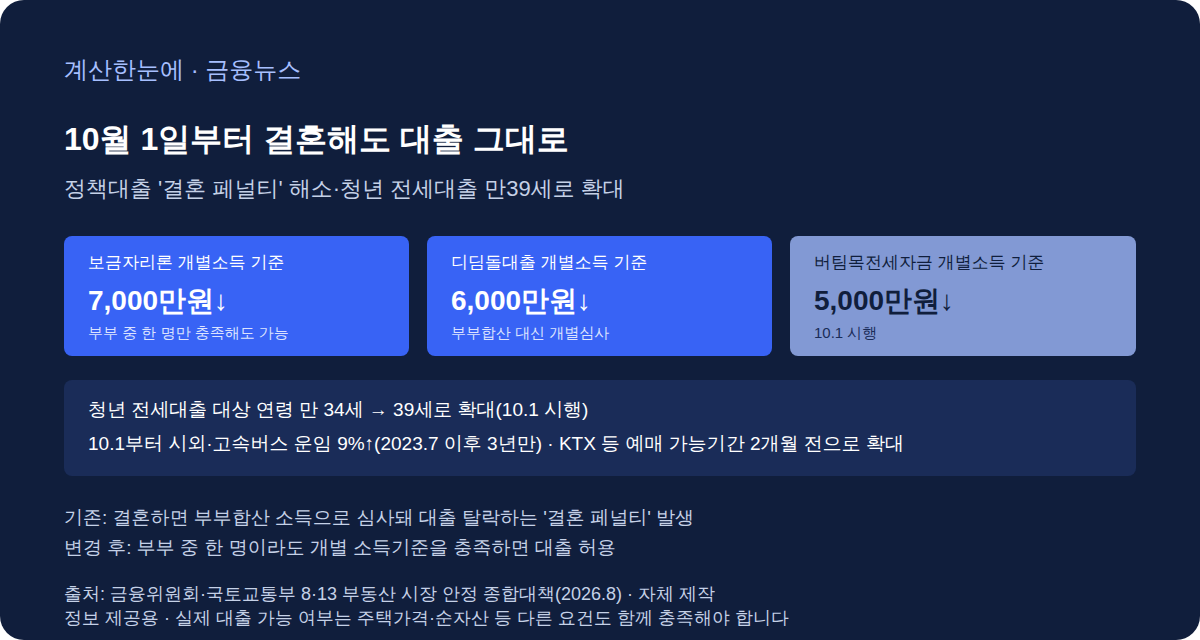
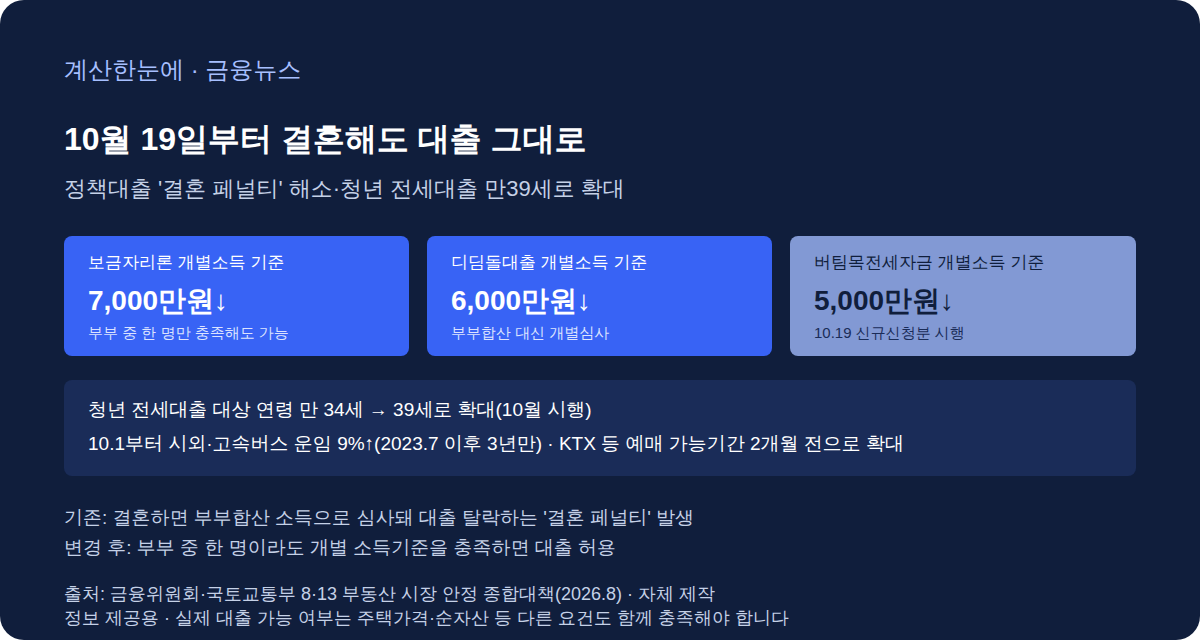
feat(news): 신한은행 대출정보 유출 기사 추가; 결혼페널티 시행일 10.19로 정정
오늘(10/1) 자 금융뉴스로 신한은행 대출모집인 시스템 개인정보 유출 사고를
다뤘다. 이투데이·데일리안·뉴스웍스·일간투데이 등으로 교차검증했고,
작년 12월 신한카드 유출(19만건) 사례를 함께 짚어 계열사 반복 사고라는
맥락을 더했다. 제목에 "대출"이 들어가 자동 키워드 매칭으로 대출 계산기
CTA가 잘못 붙는 것을 막기 위해 calculatorHrefOverrides: []로 명시
차단했다(기존 "스미싱 기사 오탐" 사례와 같은 유형).

오늘 취재 중 9/28 기사와 9/29 정책 페이지 3건이 정책대출 결혼 페널티
해소 시행일을 "10월 1일"로 잘못 보도했다는 것을 확인해 함께 정정했다.
이데일리·뉴스1·서울경제·스포탈코리아 등 다수 매체가 "10월 19일 신규
신청분부터" 적용된다고 명확히 보도하고 있어, 당초 보도(10.1)가 이후
구체화된 시행일(10.19)을 반영하지 못한 것으로 확인된다.

- lib/news.ts: marriage-penalty-policy-loan-relief-oct-2026 기사의
  제목·요약·본문·이미지alt·지갑영향 요약에서 "10월 1일"→"10월 19일
  신규 신청분"으로 수정, 본문 말미에 정정 사실 명시, reviewedAt을
  2026-10-01로 갱신(버스·KTX 10.1 시행 부분은 정확했으므로 유지)
- public/news-marriage-penalty-loan-relief.svg: 인포그래픽 날짜 동일
  수정 후 PNG 재생성
- lib/constants/policyData.ts: 청년전용 버팀목전세자금(연령 확대 시행일
  "10월"로 완화), 디딤돌대출·보금자리론(결혼페널티 완화 "10월 19일
  신규 신청분"으로 수정), 세 항목 checkedAt을 2026-10-01로 갱신

Claude-Session: https://claude.ai/code/session_01QDsdG4QVcuaDEbProvrrsE

Changed region(s): [[0.1233, 0.1875, 0.4933, 0.25], [0.7092, 0.5, 0.8017, 0.5312], [0.4317, 0.625, 0.4933, 0.6562]]

diff --git a/lib/news.ts b/lib/news.ts
@@ -540,27 +540,27 @@ export const newsArticles: NewsArticle[] = [
   },
   {
     slug: "marriage-penalty-policy-loan-relief-oct-2026",
-    title: "10월 1일부터 결혼해도 대출 그대로…정책대출 '결혼 페널티' 사라진다",
-    category: "금융", date: "2026-09-28", publishedAt: "2026-09-28", reviewedAt: "2026-09-28",
-    summary: "이번 주 목요일인 10월 1일부터 보금자리론·디딤돌대출·버팀목전세자금 등 주요 정책대출에서 부부 중 한 명만 개별 소득기준을 충족해도 대출을 받을 수 있도록 심사 방식이 바뀝니다. 청년 전세대출 대상 연령도 만 34세에서 39세로 넓어지고, 같은 날 시외·고속버스 운임은 9% 오릅니다. 결혼신고나 전세 계약, 장거리 이동을 앞두고 있다면 날짜를 확인해볼 만합니다.",
+    title: "10월 19일부터 결혼해도 대출 그대로…정책대출 '결혼 페널티' 사라진다",
+    category: "금융", date: "2026-09-28", publishedAt: "2026-09-28", reviewedAt: "2026-10-01",
+    summary: "10월 19일 신규 신청분부터 보금자리론·디딤돌대출·버팀목전세자금 등 주요 정책대출에서 부부 중 한 명만 개별 소득기준을 충족해도 대출을 받을 수 있도록 심사 방식이 바뀝니다. 청년 전세대출 대상 연령도 만 34세에서 39세로 넓어지며, 10월 1일부터는 시외·고속버스 운임이 9% 오릅니다. 결혼신고나 전세 계약, 장거리 이동을 앞두고 있다면 날짜를 확인해볼 만합니다.",
     sourceName: "금융위원회·국토교통부 8·13 부동산 시장 안정 종합대책(2026.8.13)",
     sourceUrl: "https://www.fsc.go.kr/no010101",
     image: "/news-marriage-penalty-loan-relief.svg",
-    imageAlt: "10월 1일부터 보금자리론은 개별소득 7,000만원 이하, 디딤돌대출은 6,000만원 이하, 버팀목전세자금은 5,000만원 이하이면 부부 중 한 명만 충족해도 대출이 허용되고, 청년 전세대출 대상 연령은 만 34세에서 39세로 확대되며, 같은 날 시외·고속버스 운임이 9% 오르고 KTX 등 철도승차권 예매 가능기간이 출발 2개월 전으로 늘어난다는 내용을 담은 인포그래픽. 기존에는 결혼하면 부부합산 소득으로 심사돼 대출에서 탈락하는 '결혼 페널티'가 있었으나, 변경 후에는 부부 중 한 명이라도 개별 소득기준을 충족하면 대출이 허용된다.",
+    imageAlt: "10월 19일 신규 신청분부터 보금자리론은 개별소득 7,000만원 이하, 디딤돌대출은 6,000만원 이하, 버팀목전세자금은 5,000만원 이하이면 부부 중 한 명만 충족해도 대출이 허용되고, 청년 전세대출 대상 연령은 만 34세에서 39세로 확대되며, 10월 1일부터는 시외·고속버스 운임이 9% 오르고 KTX 등 철도승차권 예매 가능기간이 출발 2개월 전으로 늘어난다는 내용을 담은 인포그래픽. 기존에는 결혼하면 부부합산 소득으로 심사돼 대출에서 탈락하는 '결혼 페널티'가 있었으나, 변경 후에는 부부 중 한 명이라도 개별 소득기준을 충족하면 대출이 허용된다.",
     walletTakeaway: [
-      "결혼을 앞두고 보금자리론·디딤돌대출·버팀목전세자금을 고려 중이라면, 혼인신고 시점을 10월 1일 이후로 맞추는 것이 유리한지 개별 소득기준(7,000만·6,000만·5,000만원)으로 직접 확인해보세요.",
+      "결혼을 앞두고 보금자리론·디딤돌대출·버팀목전세자금을 고려 중이라면, 혼인신고 시점을 10월 19일 이후로 맞추는 것이 유리한지 개별 소득기준(7,000만·6,000만·5,000만원)으로 직접 확인해보세요.",
       "만 35~39세 무주택자라면 10월부터 새로 청년 전세대출 대상에 포함되니, 전세 계약 전에 미리 자격을 확인해보세요.",
       "10월 1일부터 시외·고속버스 요금이 9% 오르니 정기적으로 장거리 버스를 이용한다면 사전에 왕복 일정이나 승차권 구매 시점을 조정해보는 것이 좋습니다.",
     ],
     body: [
-      "이번 주 목요일인 10월 1일부터 보금자리론·디딤돌대출·버팀목전세자금 등 주요 정책대출에서 결혼 여부 때문에 대출 자격을 잃는 이른바 '결혼 페널티'가 사라진다. 지금까지는 부부가 되면 두 사람의 소득을 합산해 심사했지만, 앞으로는 부부 중 한 명만 개별 소득기준을 충족해도 대출을 받을 수 있도록 바뀐다. 청년 전세대출의 대상 연령도 만 34세에서 39세로 넓어져, 이달 안에 결혼신고나 전세 계약을 앞두고 있다면 날짜를 챙겨볼 만하다.",
+      "10월 19일 신규 신청분부터 보금자리론·디딤돌대출·버팀목전세자금 등 주요 정책대출에서 결혼 여부 때문에 대출 자격을 잃는 이른바 '결혼 페널티'가 사라진다. 지금까지는 부부가 되면 두 사람의 소득을 합산해 심사했지만, 앞으로는 부부 중 한 명만 개별 소득기준을 충족해도 대출을 받을 수 있도록 바뀐다. 청년 전세대출의 대상 연령도 만 34세에서 39세로 넓어져, 결혼신고나 전세 계약을 앞두고 있다면 날짜를 챙겨볼 만하다.",
       "이번 조치는 금융위원회와 국토교통부가 지난 8월 13일 발표한 부동산 시장 안정을 위한 금융 종합대책(8·13대책)에 담긴 내용이다. 그동안 정책대출은 미혼일 때는 각자 소득기준을 충족해 대출이 가능하다가도, 결혼 후 배우자 소득까지 합산되면서 기준을 초과해 대상에서 제외되는 사례가 많았다. 예를 들어 연소득 5,000만원과 7,000만원인 두 사람이 각각 미혼일 때는 무주택 실수요자 대출을 받을 수 있지만, 결혼해 합산소득이 1억2,000만원이 되면 소득 기준을 넘어 디딤돌대출 대상에서 빠지는 식이다. 청년들이 대출 때문에 혼인신고를 미루는 부작용까지 나타나자 정부가 이를 결혼 페널티로 규정하고 손보기로 했다.",
-      "10월 1일부터는 이 기준이 부부 중 한 명의 개별 소득으로 바뀐다. 보금자리론은 7,000만원, 디딤돌대출은 6,000만원, 버팀목전세자금은 5,000만원이 각각의 개별 소득 기준이며, 부부 중 한 명이라도 이 금액 이하이면 대출을 받을 수 있다. 앞서 예로 든 5,000만원·7,000만원 소득의 부부라면, 10월부터는 부부합산이 아니라 5,000만원 소득자를 기준으로 심사해 버팀목전세자금 대상이 될 수 있다는 뜻이다. 다만 실제 대출 가능 여부와 한도는 주택가격, 순자산, 대상주택 요건 등 다른 심사 기준도 함께 충족해야 확정된다.",
+      "10월 19일 신규 신청분부터는 이 기준이 부부 중 한 명의 개별 소득으로 바뀐다. 보금자리론은 7,000만원, 디딤돌대출은 6,000만원, 버팀목전세자금은 5,000만원이 각각의 개별 소득 기준이며, 부부 중 한 명이라도 이 금액 이하이면 대출을 받을 수 있다. 앞서 예로 든 5,000만원·7,000만원 소득의 부부라면, 10월 19일부터는 부부합산이 아니라 5,000만원 소득자를 기준으로 심사해 버팀목전세자금 대상이 될 수 있다는 뜻이다. 다만 실제 대출 가능 여부와 한도는 주택가격, 순자산, 대상주택 요건 등 다른 심사 기준도 함께 충족해야 확정된다.",
       "청년 대상 정책대출의 나이 기준도 통일된다. 정부는 상품마다 제각각이던 청년 연령 기준을 만 39세 이하로 맞추기로 했고, 그동안 만 34세 이하까지만 이용할 수 있었던 청년 전세대출 보증 대상이 10월부터 39세 이하로 넓어진다. 30대 후반 무주택자도 청년 전형 전세대출을 새로 이용할 수 있게 되는 셈이다.",
       "다만 현장 반응은 엇갈린다. 결혼 페널티가 해소된 것은 환영할 만하지만, 최근 수도권을 중심으로 집값이 이미 크게 오른 상태라 소득 기준 완화만으로는 실수요자의 부담이 크게 줄지 않을 것이라는 지적도 나온다. 대상 주택의 가격 상한이나 지역별 대출 한도는 이번 대책에서 크게 바뀌지 않아, 서울 등 고가 지역에서는 여전히 정책대출만으로 집을 구하기 어렵다는 목소리도 있다.",
-      "정부는 여기서 한 걸음 더 나아가 내년 1월 만 39세 이하, 연소득 7,000만원 이하 청년을 대상으로 청년미래보금자리론을 새로 출시할 계획도 함께 내놨다. 4억원 이하 빌라·오피스텔 등 비아파트를 살 때 담보인정비율(LTV) 최대 80%를 적용하는 상품으로, 2억원을 연 3.0% 금리로 30년간 빌리면 월 원리금 상환액이 약 85만원 수준이 되도록 설계해 월세 낼 돈으로 내 집을 마련한다는 취지다. 다만 이 상품은 10월이 아니라 2027년 1월 출시 예정이어서 이번 주부터 곧바로 이용할 수 있는 것은 아니다.",
-      "같은 날인 10월 1일부터는 대출 외에 생활비에 직접 영향을 주는 변화도 함께 시행된다. 국토교통부는 시외버스와 고속버스 운임 상한을 각각 9% 인상한다고 밝혔다. 버스업계가 인건비·유류비 상승을 이유로 시외버스 17%, 고속버스 20.1% 인상을 요구했지만, 국토교통부가 원가 검증과 이용자 부담을 고려해 인상 폭을 9%로 정했다. 2023년 7월 5% 인상 이후 약 3년 만의 요금 인상이다. 반대로 이용자에게 편의가 늘어나는 변화도 있다. KTX 등 철도 승차권은 10월 1일부터 예매 가능 기간이 출발 2개월 전으로 늘어나 추석·설 등 성수기 좌석을 더 여유 있게 준비할 수 있게 된다.",
-      "이번 정책대출 완화는 소득 기준만 바뀌는 것이고, 주택가격·순자산·대상주택 등 나머지 자격 요건은 기존과 동일하게 적용된다. 실제 대출 가능 여부와 한도, 금리는 신청 시점의 소득·자산 심사 결과에 따라 달라지므로, 결혼이나 전세 계약을 앞두고 있다면 10월 1일 이후 주택도시기금이나 한국주택금융공사 공식 창구에서 개편된 기준으로 다시 확인해보는 것이 좋다. 이 글은 정보 전달을 목적으로 하며 특정 대출 상품의 가입을 권유하지 않는다.",
+      "정부는 여기서 한 걸음 더 나아가 내년 1월 만 39세 이하, 연소득 7,000만원 이하 청년을 대상으로 청년미래보금자리론을 새로 출시할 계획도 함께 내놨다. 4억원 이하 빌라·오피스텔 등 비아파트를 살 때 담보인정비율(LTV) 최대 80%를 적용하는 상품으로, 2억원을 연 3.0% 금리로 30년간 빌리면 월 원리금 상환액이 약 85만원 수준이 되도록 설계해 월세 낼 돈으로 내 집을 마련한다는 취지다. 다만 이 상품은 10월이 아니라 2027년 1월 출시 예정이어서 당장 이용할 수 있는 것은 아니다.",
+      "이와 별도로 10월 1일부터는 대출 외에 생활비에 직접 영향을 주는 변화도 시행된다. 국토교통부는 시외버스와 고속버스 운임 상한을 각각 9% 인상한다고 밝혔다. 버스업계가 인건비·유류비 상승을 이유로 시외버스 17%, 고속버스 20.1% 인상을 요구했지만, 국토교통부가 원가 검증과 이용자 부담을 고려해 인상 폭을 9%로 정했다. 2023년 7월 5% 인상 이후 약 3년 만의 요금 인상이다. 반대로 이용자에게 편의가 늘어나는 변화도 있다. KTX 등 철도 승차권은 10월 1일부터 예매 가능 기간이 출발 2개월 전으로 늘어나 추석·설 등 성수기 좌석을 더 여유 있게 준비할 수 있게 된다.",
+      "이번 정책대출 완화는 소득 기준만 바뀌는 것이고, 주택가격·순자산·대상주택 등 나머지 자격 요건은 기존과 동일하게 적용된다. 실제 대출 가능 여부와 한도, 금리는 신청 시점의 소득·자산 심사 결과에 따라 달라지므로, 결혼이나 전세 계약을 앞두고 있다면 10월 19일 이후 주택도시기금이나 한국주택금융공사 공식 창구에서 개편된 기준으로 다시 확인해보는 것이 좋다. 이 글은 정보 전달을 목적으로 하며 특정 대출 상품의 가입을 권유하지 않는다. (2026년 10월 1일 정정: 정책대출 결혼 페널티 완화·소득기준 변경은 당초 보도와 달리 10월 1일이 아닌 10월 19일 신규 신청분부터 적용된다는 점을 확인해 날짜를 바로잡았다.)",
     ]
   },
   {
@@ -611,6 +611,33 @@ export const newsArticles: NewsArticle[] = [
       "제도적으로는 자본시장법 개정을 통해 금융당국에 긴급조치권을 부여하는 방안도 함께 추진된다. 시장이 급변할 때 지금처럼 사후에 보완책을 내놓는 대신, 금융위와 금융감독원이 즉시 시장 안정화 조치를 취할 수 있는 법적 근거를 미리 마련해두겠다는 취지다. 금융위는 참고 사례로 홍콩 증권선물위원회(SFC)의 가변 레버리지 배율 지침을 들었다. 홍콩은 자산운용사의 운용 역량에 따라 사전 기준 설정과 공시 절차를 거쳐 상장 레버리지·인버스 상품의 배율을 조정할 수 있도록 허용하고 있다.",
       "일각에서는 이번 대응이 한발 늦었다는 비판도 나온다. 이미 여러 투자자가 큰 손실을 확정한 뒤에야 강화된 대책이 나왔다는 지적이다. 7월 말 1차 규제 발표 당시에도 '투자자 대다수가 손실을 본 뒤에야 뒷북 대응에 나섰다'는 비판이 있었는데, 이번 추가조치 역시 구체적인 시행 시기가 확정되지 않아 시장에서는 여전히 불확실성이 남아 있다는 평가가 나온다.",
       "금융위원회는 이번에 발표한 과제들을 소관기관을 중심으로 세부방안을 마련해 최대한 조기에 시행하겠다는 입장이다. 다만 투자한도 비율, 모의거래 방식, 과다호가부담금 부과 기준 등 구체적인 내용과 시행일은 아직 확정되지 않았다. 이미 단일종목 레버리지·인버스 ETF에 투자하고 있거나 투자를 고려 중이라면, 이 상품이 단기 매매를 전제로 설계돼 기초자산보다 변동성이 훨씬 크다는 점을 감안하고 향후 발표되는 세부 시행 기준을 확인하는 것이 좋다. 이 글은 정보 전달을 목적으로 하며 특정 금융상품에 대한 투자를 권유하지 않는다.",
+    ]
+  },
+  {
+    slug: "shinhan-bank-loan-info-leak-2026-10-01",
+    title: "신한은행 대출정보 2만건 유출 정황…금감원 긴급 현장조사",
+    category: "금융", date: "2026-10-01", publishedAt: "2026-10-01", reviewedAt: "2026-10-01",
+    summary: "1일 금융권에 따르면 신한은행의 대출모집인 전용 시스템에서 고객 개인정보가 유출된 정황이 포착돼 금융감독원이 긴급 현장조사에 착수했습니다. 현재까지 파악된 유출 규모는 대출자 정보 약 2만건으로, 주민등록번호·소득·대출금액 등이 포함된 것으로 전해졌습니다. 신한은행은 당국과 조율해 대국민 사과문을 낼 예정입니다.",
+    sourceName: "금융감독원·신한은행 관련 보도(2026.10.1)",
+    sourceUrl: "https://www.fss.or.kr",
+    image: "/news-shinhan-bank-info-leak.svg",
+    imageAlt: "신한은행의 대출모집인 전용 시스템에서 고객 개인정보 약 2만건이 유출된 정황이 포착돼 10월 1일 금융감독원이 긴급 현장조사에 착수했다는 내용의 인포그래픽. 유출 정보에는 주민등록번호·소득·대출금액 등 대출 심사·모집 과정에서 수집된 개인정보가 포함됐고, 유출 경로는 고객이 쓰는 공식 뱅킹앱이 아닌 대출모집인 전용 시스템이며, 로그인 인증 기반 뱅킹서비스 자체가 해킹된 것은 아닌 것으로 전해졌다. 일각에서는 다른 사이트에서 유출된 계정 정보로 반복 로그인을 시도하는 '크리덴셜 스터핑' 공격 가능성이 제기되고 있다.",
+    calculatorHrefOverrides: [],
+    walletTakeaway: [
+      "최근 신한은행에서 대출 상담이나 신청을 진행한 적이 있다면, 신한은행 공식 고객센터나 공식 앱을 통해 본인 정보가 이번 유출 대상에 포함됐는지 확인해보세요.",
+      "다른 사이트와 같은 아이디·비밀번호를 신한은행 계정에도 쓰고 있다면 지금 비밀번호를 바꾸고, 가능하다면 OTP 등 추가 인증 수단을 켜두는 것이 안전합니다.",
+      "유출된 정보(주민번호·소득·대출금액 등)를 이용한 보이스피싱·대출사기 시도가 뒤따를 수 있으니, 신한은행을 사칭해 추가 인증이나 송금을 요구하는 전화·문자에는 응하지 말고 대표번호로 직접 확인하세요.",
+    ],
+    body: [
+      "1일 금융권에 따르면 신한은행의 대출모집인 전용 시스템에서 고객 개인정보가 외부로 유출된 정황이 포착돼 금융감독원이 긴급 현장조사에 착수했다. 현재까지 파악된 유출 규모는 대출자 정보 약 2만건 안팎으로, 정확한 범위와 경위는 조사가 진행 중이어서 아직 확정되지 않았다. 신한은행은 금융당국과 조율을 거쳐 대국민 사과문을 발표할 예정이다.",
+      "이번 사고는 고객이 직접 쓰는 신한은행 공식 홈페이지나 모바일 뱅킹 앱이 아니라, 대출모집인들이 영업 과정에서 접속하는 별도 시스템에서 발생한 것으로 전해졌다. 이 시스템에는 대출 심사·모집 과정에서 수집된 차주의 주민등록번호, 소득, 대출금액 등 개인정보와 신용정보가 담겨 있었다. 유출 사실은 지난달 30일 정황이 포착되면서 알려지기 시작했다.",
+      "해킹 수법으로는 '크리덴셜 스터핑' 방식의 공격 가능성이 금융권 일각에서 제기되고 있다. 이는 공격자가 다른 경로로 확보한 아이디·비밀번호 조합을 여러 온라인 서비스에 반복 대입해 로그인을 시도하는 수법으로, 이용자가 여러 사이트에서 똑같거나 비슷한 로그인 정보를 재사용하는 습관을 악용한다. 다만 이번 사고의 정확한 침입 경로는 금융당국 조사를 통해 확인될 예정이며, 아직 공식적으로 확정된 설명은 아니다.",
+      "금융위원회와 금융감독원은 1일 오전 회의를 열어 사고 상황을 공유하고 대응 방안을 점검했다. 금융감독원은 은행권, IT·보안 전문 인력을 투입해 현장조사를 진행 중이며, 유출된 정보의 정확한 성격과 규모, 유출 경위 등을 종합적으로 파악하고 있다고 밝혔다.",
+      "다만 공인인증·OTP 등 로그인 인증을 기반으로 한 신한은행 뱅킹 서비스 자체가 뚫린 것은 아닌 것으로 전해졌다. 이번 유출은 웹상의 간편 조회 서비스를 거쳐 정보 일부가 샌 것으로 파악돼, 계좌에서 직접 자금이 빠져나가는 유형의 사고와는 성격이 다르다. 그렇다고 안심할 수 있는 것은 아니다. 주민등록번호·소득·대출금액처럼 구체적인 개인정보가 유출된 만큼, 이를 활용한 2차 범죄로 이어질 위험은 남아 있다.",
+      "신한금융그룹 계열사의 정보유출 사고는 이번이 처음이 아니다. 지난해 12월에도 신한카드에서 개인정보 약 19만건이 유출되는 사고가 발생해 금융당국이 긴급 현장검사에 나섰고, 당시에는 카드업권 전체를 상대로 한 점검으로까지 이어진 바 있다. 약 9개월 만에 계열사인 은행에서 비슷한 유형의 사고가 다시 발생하면서, 이번에는 특정 계열사만이 아니라 그룹 차원의 정보보호 체계 전반을 점검해야 한다는 지적도 나온다.",
+      "실제로 유출된 개인정보는 보이스피싱이나 대출사기의 재료로 악용되기 쉽다. 공격자가 피해자의 실제 대출 정보를 미리 알고 접근하면, '신한은행 상담원'이나 '금융감독원 직원'을 사칭한 전화·문자의 신빙성이 훨씬 높아지기 때문이다. 앞서 지난달에도 금융위원회와 금융감독원이 택배 배송 오류나 과태료 미납을 사칭한 스미싱, 금융기관을 사칭해 추가 인증을 요구하는 보이스피싱에 대한 주의보를 낸 바 있는데, 이번처럼 실제 금융정보가 유출된 상태에서는 유사한 사기 시도에 더욱 주의할 필요가 있다.",
+      "최근 신한은행에서 대출 상담이나 신청 이력이 있는 고객이라면 공식 고객센터나 공식 앱을 통해 유출 여부를 확인해보는 것이 좋다. 다른 사이트와 동일한 비밀번호를 쓰고 있었다면 이번 기회에 바꿔두고, 출처를 알 수 없는 전화나 문자로 개인정보나 추가 인증을 요구받으면 바로 응하지 말고 신한은행 대표번호로 직접 확인하는 절차를 거치는 것이 안전하다.",
+      "이 사고는 여전히 조사 중인 사안으로, 유출 정보의 정확한 범위와 경위, 재발방지 대책 등은 금융감독원 조사 결과와 신한은행의 공식 발표를 통해 추가로 확인될 전망이다. 이 글은 1일 오전까지 보도된 내용을 기준으로 작성됐으며, 이후 조사 결과에 따라 세부 내용이 달라질 수 있다. 이 글은 정보 전달을 목적으로 하며 특정 금융상품의 가입이나 투자를 권유하지 않는다.",
     ]
   },
 ];

diff --git a/lib/constants/policyData.ts b/lib/constants/policyData.ts
@@ -4,12 +4,12 @@ const loanLinks = [{ label: "대출 이자 계산기", href: "/calculators/loan-
 const salaryLinks = [{ label: "연봉 실수령액 계산기", href: "/calculators/salary-net-pay" }, { label: "퇴직금 계산기", href: "/calculators/severance-pay" }];
 
 export const policyData = {
-  youthJeonse: { category: "주거·부동산", title: "청년전용 버팀목전세자금: 신청 전 확인사항", summary: "청년전용 버팀목전세자금은 무주택 청년의 전세보증금 마련을 지원하는 주택도시기금 상품입니다. 2026년 10월 1일부터 대상 연령이 만 39세까지 넓어졌습니다. 금리만 비교하지 말고 나이, 세대주, 소득·자산, 대상주택과 보증 가능 여부를 순서대로 확인해야 합니다.", status: "공식 상품 운영 확인", checkedAt: "2026-09-29", audience: ["전세 계약을 앞둔 무주택 청년", "일반 은행 전세대출과 정책대출 이자를 비교하는 사람"], benefits: ["대출 한도는 최대 2억원이며, 만 25세 미만 단독세대주는 1.5억원까지입니다. 실제 한도는 이 금액과 전세보증금의 80% 중 더 적은 금액으로 정해집니다.", "적용금리는 연 1.0%~4.3% 수준이며, 실제 금리와 한도는 접수일의 상품 기준과 소득·자산 심사에 따라 달라집니다."], checks: ["2026년 10월 1일부터 대상 연령이 만 34세 이하에서 39세 이하로 확대됩니다. 이전에는 34세를 넘으면 이용할 수 없었습니다.", "세대주 또는 예비 세대주여야 합니다.", "부부합산 연소득 5천만원, 순자산 3.45억원 이하 기준을 확인하세요.", "본인과 세대원의 무주택 요건, 임대차계약서와 신청시기 요건을 확인하세요.", "대출 승인과 반환보증 가입 가능 여부는 별도 심사이니 함께 확인하세요."], sourceName: "주택도시기금 청년전용 버팀목전세자금", sourceUrl: "https://nhuf.molit.go.kr/FP/FP05/FP0502/FP05020301.jsp", related: loanLinks },
+  youthJeonse: { category: "주거·부동산", title: "청년전용 버팀목전세자금: 신청 전 확인사항", summary: "청년전용 버팀목전세자금은 무주택 청년의 전세보증금 마련을 지원하는 주택도시기금 상품입니다. 2026년 10월부터 대상 연령이 만 39세까지 넓어졌습니다. 금리만 비교하지 말고 나이, 세대주, 소득·자산, 대상주택과 보증 가능 여부를 순서대로 확인해야 합니다.", status: "공식 상품 운영 확인", checkedAt: "2026-10-01", audience: ["전세 계약을 앞둔 무주택 청년", "일반 은행 전세대출과 정책대출 이자를 비교하는 사람"], benefits: ["대출 한도는 최대 2억원이며, 만 25세 미만 단독세대주는 1.5억원까지입니다. 실제 한도는 이 금액과 전세보증금의 80% 중 더 적은 금액으로 정해집니다.", "적용금리는 연 1.0%~4.3% 수준이며, 실제 금리와 한도는 접수일의 상품 기준과 소득·자산 심사에 따라 달라집니다."], checks: ["2026년 10월부터 대상 연령이 만 34세 이하에서 39세 이하로 확대됩니다. 이전에는 34세를 넘으면 이용할 수 없었습니다. 정확한 시행일은 주택도시기금 공고로 다시 확인하세요.", "세대주 또는 예비 세대주여야 합니다.", "부부합산 연소득 5천만원, 순자산 3.45억원 이하 기준을 확인하세요.", "본인과 세대원의 무주택 요건, 임대차계약서와 신청시기 요건을 확인하세요.", "대출 승인과 반환보증 가입 가능 여부는 별도 심사이니 함께 확인하세요."], sourceName: "주택도시기금 청년전용 버팀목전세자금", sourceUrl: "https://nhuf.molit.go.kr/FP/FP05/FP0502/FP05020301.jsp", related: loanLinks },
   newlywedJeonse: { category: "주거·부동산", title: "신혼부부 전세자금대출: 버팀목 확인 순서", summary: "신혼부부전용 전세자금은 혼인기간, 무주택, 부부합산 소득·자산과 대상주택 조건을 함께 심사합니다.", status: "공식 상품 운영 확인", checkedAt: "2026-09-22", audience: ["전세 신혼집을 구하는 무주택 신혼부부", "혼인 예정자로 정책 전세자금을 비교하는 사람"], benefits: ["부부합산 연소득 7,500만원, 순자산 3.45억원 이하이면 신혼부부 전용 조건으로 심사받을 수 있습니다.", "한도는 전세보증금의 80% 이내에서 지역별로 다르며, 자녀 수 등에 따라 우대금리가 추가될 수 있습니다."], checks: ["혼인기간 7년 이내 또는 3개월 이내 결혼예정 증빙 요건을 확인하세요.", "부부합산 소득과 순자산 기준을 확인하세요.", "신규 계약은 잔금 지급일 또는 전입일 중 빠른 날로부터 3개월 이내에 신청해야 합니다.", "대상주택과 보증기관 심사 가능 여부를 계약 전에 확인하세요."], sourceName: "주택도시기금 신혼부부전용 전세자금", sourceUrl: "https://nhuf.molit.go.kr/FP/FP05/FP0502/FP05020401.jsp", related: loanLinks },
   guaranteeFee: { category: "주거·부동산", title: "전세보증금 반환보증 보증료 지원: 최대 40만원 확인", summary: "전세보증금 반환보증에 가입하면서 낸 보증료를 지자체가 환급하는 국토교통부 지원사업입니다. 지원 대상이 청년에서 전 연령 무주택 임차인으로 넓어졌습니다.", status: "지자체별 예산 확인 필요", checkedAt: "2026-09-22", audience: ["HUG·HF·SGI 반환보증에 가입한 임차인", "보증료 지원 대상인지 확인하려는 사람"], benefits: ["지원 대상이 청년에 한정되지 않고 전 연령 저소득 무주택 임차인으로 확대됐습니다.", "임차보증금 3억원 이하 기준으로, 연소득 청년 5천만원·청년 외 6천만원·신혼부부 7,500만원 이하면 대상이 됩니다.", "2025년 3월 31일 이후 보증 가입자는 지원 상한이 최대 40만원이며, 청년·신혼부부는 납부 보증료 전액, 그 외는 90% 범위에서 지원됩니다."], checks: ["주소지 지자체의 예산과 접수창구를 확인하세요.", "청년 연령 기준은 지자체 조례에 따라 다를 수 있습니다.", "신혼부부는 혼인신고일 7년 이내 여부를 확인하세요.", "예산 소진 시 조기 마감될 수 있어 정부24나 HUG 안심전세포털에서 접수 가능 여부를 먼저 확인하세요."], sourceName: "HUG 국토부 보증료 지원사업", sourceUrl: "https://www.khug.or.kr/jeonse/web/s05/s050601.jsp", related: loanLinks },
   youthRent: { category: "청년·가족", title: "청년 월세 지원: 신청 가능 여부 확인하는 방법", summary: "청년 월세 지원은 중앙정부와 지방자치단체 사업의 모집기간·대상·지원액이 서로 다릅니다. 2026년부터는 매년 신규 수혜자를 모집하는 계속사업으로 바뀌었습니다.", status: "최신 모집공고 확인 필요", checkedAt: "2026-09-22", audience: ["부모와 별도로 거주하며 월세를 내는 청년", "현재 접수 중인 월세지원을 찾는 사람"], benefits: ["중앙정부 사업은 월 최대 20만원씩 최대 24개월(회), 생애 1회 지원됩니다.", "2026년부터 매년 신규 수혜자를 모집하는 계속사업으로 전환돼 전국 6만명 규모로 선정합니다.", "지자체별로도 별도 사업이 수시 공고될 수 있습니다."], checks: ["2026년 중앙정부 사업은 3월 30일~5월 29일 접수를 이미 마쳤으니, 다음 회차 공고 시기를 복지로에서 확인하세요.", "서울시 등 일부 지자체는 별도 접수 일정으로 운영됩니다.", "소득·재산, 임대차계약과 월세 납부자료를 미리 준비하세요.", "과거 공고의 신청기간을 현재 모집기간으로 오해하지 마세요."], sourceName: "복지로 복지서비스 찾기", sourceUrl: "https://www.bokjiro.go.kr/ssis-tbu/index.do", related: loanLinks },
-  didimdol: { category: "대출·금융", title: "내집마련 디딤돌대출: 주택 구입 전 확인 순서", summary: "디딤돌대출은 무주택 실수요자의 주택 구입자금을 지원하는 정책대출입니다. 2026년 10월 1일부터는 결혼 후에도 부부 중 한 명이 개별 소득기준을 충족하면 대출이 허용되는 '결혼 페널티' 완화가 적용됩니다. 계약 전에 세대원 무주택, 소득·자산, 대상주택과 신청시기를 함께 확인해야 합니다.", status: "공식 상품 운영 확인", checkedAt: "2026-09-29", audience: ["첫 집 구입을 준비하는 무주택 세대", "일반 주택담보대출과 정책대출을 비교하는 사람"], benefits: ["금리는 연 2.85%~4.15% 수준이며, 생애최초·다자녀·한부모·장애인가구 등은 0.2~0.7%p 우대금리가 적용될 수 있습니다.", "부부합산 순자산 5.11억원 이하가 기본 자격 요건입니다.", "일반 가구는 연소득 6천만원 이하, 생애최초는 7천만원 이하이며 신혼·다자녀 등 우대 유형은 최대 8,500만원까지 완화됩니다."], checks: ["세대주와 세대원 무주택 요건을 확인하세요.", "2026년 10월 1일부터는 부부합산 소득이 기준을 넘더라도 부부 중 한 명의 개별 연소득이 6천만원(일반 가구 기준) 이하이면 대출을 받을 수 있습니다. 결혼 전에는 대상이었다가 결혼 후 합산소득 때문에 탈락하던 문제를 해소한 조치입니다.", "대상 주택은 전용면적 85㎡ 이하(읍·면 100㎡)이며, 신혼·2자녀 이상 가구는 6억원 이하 주택까지 가능합니다.", "소득·순자산 기준액은 매년 바뀔 수 있어 접수일 기준 기금e든든 공고를 다시 확인하세요.", "매매계약과 소유권이전 시점에 따른 신청기한을 놓치지 마세요."], sourceName: "주택도시기금 내집마련 디딤돌대출", sourceUrl: "https://nhuf.molit.go.kr/FP/FP05/FP0503/FP05030101.jsp", related: [{ label: "대출 이자 계산기", href: "/calculators/loan-interest" }, { label: "주택 취득세 계산기", href: "/calculators/home-acquisition-tax" }] },
-  bogeumjari: { category: "대출·금융", title: "보금자리론 조건: 고정금리 주택담보대출 확인사항", summary: "보금자리론은 한국주택금융공사가 공급하는 장기 고정금리 주택담보대출입니다. 2026년 10월 1일부터는 신혼부부의 소득기준이 완화됩니다. 주택가격과 소득, 주택보유 수, LTV·DTI 및 상환방식을 함께 비교해야 합니다.", status: "공식 상품 운영 확인", checkedAt: "2026-09-29", audience: ["고정금리 주택담보대출을 찾는 사람", "주택 구입·기존 대출 상환 조건을 비교하는 사람"], benefits: ["대출 실행일부터 만기까지 고정금리가 적용되는 정책모기지입니다.", "2026년 9월 고시 기준(아낌e-보금자리론) 만기별로 연 4.90~5.20% 금리이며, 저소득청년·신혼가구·사회적배려층·전세사기피해자는 최대 1.0%p 우대를 받아 연 3.90~4.20%까지 낮아질 수 있습니다.", "LTV는 최대 80%(수도권·규제지역은 70% 이내)이며, 부부합산 연소득 7천만원 이하(신혼가구 8,500만원, 자녀 수에 따라 최대 1억원)가 기본 요건입니다."], checks: ["담보주택 가격과 부부합산 소득 요건을 확인하세요.", "2026년 10월 1일부터 신혼부부는 부부합산 8,500만원 기준을 넘더라도 부부 중 한 명의 개별 연소득이 7,000만원 이하이면 이용할 수 있는 기준이 추가됩니다. 결혼 후 배우자 소득까지 합산되며 대상에서 제외되던 '결혼 페널티'를 해소하려는 조치입니다.", "금리는 매월 고시되므로 신청 시점의 최신 고시를 다시 확인하세요.", "LTV·DTI와 실제 한도는 개인별 심사 결과가 다를 수 있습니다.", "대출 후 추가주택 처분의무와 중도상환수수료를 확인하세요."], sourceName: "한국주택금융공사 보금자리론", sourceUrl: "https://www.hf.go.kr/ko/sub01/sub01_01_01.do", related: loanLinks },
+  didimdol: { category: "대출·금융", title: "내집마련 디딤돌대출: 주택 구입 전 확인 순서", summary: "디딤돌대출은 무주택 실수요자의 주택 구입자금을 지원하는 정책대출입니다. 2026년 10월 19일 신규 신청분부터는 결혼 후에도 부부 중 한 명이 개별 소득기준을 충족하면 대출이 허용되는 '결혼 페널티' 완화가 적용됩니다. 계약 전에 세대원 무주택, 소득·자산, 대상주택과 신청시기를 함께 확인해야 합니다.", status: "공식 상품 운영 확인", checkedAt: "2026-10-01", audience: ["첫 집 구입을 준비하는 무주택 세대", "일반 주택담보대출과 정책대출을 비교하는 사람"], benefits: ["금리는 연 2.85%~4.15% 수준이며, 생애최초·다자녀·한부모·장애인가구 등은 0.2~0.7%p 우대금리가 적용될 수 있습니다.", "부부합산 순자산 5.11억원 이하가 기본 자격 요건입니다.", "일반 가구는 연소득 6천만원 이하, 생애최초는 7천만원 이하이며 신혼·다자녀 등 우대 유형은 최대 8,500만원까지 완화됩니다."], checks: ["세대주와 세대원 무주택 요건을 확인하세요.", "2026년 10월 19일 신규 신청분부터는 부부합산 소득이 기준을 넘더라도 부부 중 한 명의 개별 연소득이 6천만원(일반 가구 기준) 이하이면 대출을 받을 수 있습니다. 결혼 전에는 대상이었다가 결혼 후 합산소득 때문에 탈락하던 문제를 해소한 조치입니다.", "대상 주택은 전용면적 85㎡ 이하(읍·면 100㎡)이며, 신혼·2자녀 이상 가구는 6억원 이하 주택까지 가능합니다.", "소득·순자산 기준액은 매년 바뀔 수 있어 접수일 기준 기금e든든 공고를 다시 확인하세요.", "매매계약과 소유권이전 시점에 따른 신청기한을 놓치지 마세요."], sourceName: "주택도시기금 내집마련 디딤돌대출", sourceUrl: "https://nhuf.molit.go.kr/FP/FP05/FP0503/FP05030101.jsp", related: [{ label: "대출 이자 계산기", href: "/calculators/loan-interest" }, { label: "주택 취득세 계산기", href: "/calculators/home-acquisition-tax" }] },
+  bogeumjari: { category: "대출·금융", title: "보금자리론 조건: 고정금리 주택담보대출 확인사항", summary: "보금자리론은 한국주택금융공사가 공급하는 장기 고정금리 주택담보대출입니다. 2026년 10월 19일 신규 신청분부터는 신혼부부의 소득기준이 완화됩니다. 주택가격과 소득, 주택보유 수, LTV·DTI 및 상환방식을 함께 비교해야 합니다.", status: "공식 상품 운영 확인", checkedAt: "2026-10-01", audience: ["고정금리 주택담보대출을 찾는 사람", "주택 구입·기존 대출 상환 조건을 비교하는 사람"], benefits: ["대출 실행일부터 만기까지 고정금리가 적용되는 정책모기지입니다.", "2026년 9월 고시 기준(아낌e-보금자리론) 만기별로 연 4.90~5.20% 금리이며, 저소득청년·신혼가구·사회적배려층·전세사기피해자는 최대 1.0%p 우대를 받아 연 3.90~4.20%까지 낮아질 수 있습니다.", "LTV는 최대 80%(수도권·규제지역은 70% 이내)이며, 부부합산 연소득 7천만원 이하(신혼가구 8,500만원, 자녀 수에 따라 최대 1억원)가 기본 요건입니다."], checks: ["담보주택 가격과 부부합산 소득 요건을 확인하세요.", "2026년 10월 19일 신규 신청분부터 신혼부부는 부부합산 8,500만원 기준을 넘더라도 부부 중 한 명의 개별 연소득이 7,000만원 이하이면 이용할 수 있는 기준이 추가됩니다. 결혼 후 배우자 소득까지 합산되며 대상에서 제외되던 '결혼 페널티'를 해소하려는 조치입니다.", "금리는 매월 고시되므로 신청 시점의 최신 고시를 다시 확인하세요.", "LTV·DTI와 실제 한도는 개인별 심사 결과가 다를 수 있습니다.", "대출 후 추가주택 처분의무와 중도상환수수료를 확인하세요."], sourceName: "한국주택금융공사 보금자리론", sourceUrl: "https://www.hf.go.kr/ko/sub01/sub01_01_01.do", related: loanLinks },
   earnedIncomeCredit: { category: "근로·소득", title: "근로장려금 신청자격: 가구·소득·재산 확인 순서", summary: "근로장려금은 일하지만 소득이 적은 가구의 근로를 장려하고 소득을 지원하는 제도입니다. 가구유형, 부부합산 소득과 가구원 재산을 기준연도에 맞춰 확인해야 합니다.", status: "2026년 공식 안내 확인", checkedAt: "2026-09-22", audience: ["근로·사업·종교인 소득이 있는 저소득 가구", "정기신청과 반기신청 중 무엇이 해당하는지 찾는 근로자"], benefits: ["2026년 정기신청 기준 소득요건은 단독가구 2,200만원, 홑벌이가구 3,200만원, 맞벌이가구 4,400만원 미만입니다.", "재산요건은 2025년 6월 1일 기준 가구원 재산 합계 2.4억원 미만이며, 1.7억원 이상 2.4억원 미만 구간은 지급액의 50%만 받습니다.", "가구유형과 총소득 등에 따라 산정된 장려금을 지급합니다."], checks: ["단독·홑벌이·맞벌이 가구 구분을 먼저 확인하세요.", "정기신청 기간은 매년 5월 1일~6월 1일이며, 정기분은 9월 말까지 지급됩니다.", "재산 기준은 부채를 차감하지 않는 총자산 기준으로, 전세금·자동차·금융자산까지 폭넓게 합산되니 통장 잔고만 보고 안심하지 마세요.", "반기신청은 근로소득만 있는 경우 등 별도 조건이 있습니다."], sourceName: "국세청 근로장려금 안내", sourceUrl: "https://www.nts.go.kr/nts/cm/cntnts/cntntsView.do?cntntsId=7784&mi=2450", related: salaryLinks },
   learningCard: { category: "근로·소득", title: "국민내일배움카드 신청과 지원내용 확인", summary: "국민내일배움카드는 직업능력개발훈련이 필요한 국민에게 훈련비를 지원하는 제도입니다. 2026년 1월 이후 시작하는 과정부터 자기부담금과 훈련장려금 기준이 바뀌었습니다.", status: "상시신청 공식 확인", checkedAt: "2026-09-22", audience: ["취업·이직을 위해 직업훈련을 찾는 사람", "재직 중 새로운 직무 역량을 배우려는 사람"], benefits: ["기본 훈련비 한도는 5년간 300만~500만원이며, 대상별 추가 지원이 제공됩니다.", "훈련장려금이 월 11만6천원에서 20만원으로 인상됐습니다.", "고용센터 방문 또는 고용24에서 카드 발급을 신청할 수 있습니다."], checks: ["2026년 1월 이후 시작하는 KDT·국가기간전략산업직종훈련 등 특화훈련에는 훈련비의 최대 10%(상한 60만원) 자기부담금이 새로 생겼습니다.", "국민취업지원제도 1유형 등 취약계층은 자기부담금이 면제되니 본인 해당 여부를 확인하세요.", "지원 제외 대상과 카드 발급 심사 여부를 확인하세요.", "카드 발급 후 원하는 훈련과정을 별도로 신청해야 합니다."], sourceName: "고용24 국민내일배움카드 발급안내", sourceUrl: "https://www.work24.go.kr/hr/h/a/1100/selectIssuGudn.do", related: salaryLinks },
   childTaxCredit: { category: "근로·소득", title: "자녀장려금 지급액과 신청자격 확인", summary: "자녀장려금은 만 18세 미만 부양자녀가 있는 가구에 자녀 수에 비례해 지급하는 국세청 제도로, 근로장려금과 함께 신청합니다.", status: "2026년 공식 안내 확인", checkedAt: "2026-09-22", audience: ["만 18세 미만 자녀를 부양하는 가구", "근로장려금과 함께 자녀장려금 대상인지 확인하려는 사람"], benefits: ["부양자녀 1명당 최대 100만원을 지급합니다.", "소득기준은 부부합산 연 7,000만원 미만입니다.", "근로장려금과 같은 신청서로 함께 접수되며 별도 서류가 필요하지 않습니다."], checks: ["재산기준은 가구원 합산 2.4억원 미만이며, 1.7억원 이상 2.4억원 미만 구간은 산정액의 일부만 지급됩니다.", "재산은 부채를 차감하지 않는 총자산 기준으로 전세금·자동차·금융자산까지 합산됩니다.", "정기신청 기간과 지급일은 근로장려금과 동일하게 매년 5월 1일~6월 1일, 9월 말 지급입니다.", "정확한 지급액은 홈택스 모의계산으로 미리 확인해보는 것이 좋습니다."], sourceName: "국세청 자녀장려금 안내", sourceUrl: "https://www.nts.go.kr/nts/cm/cntnts/cntntsView.do?cntntsId=7782&mi=2451", related: salaryLinks },
